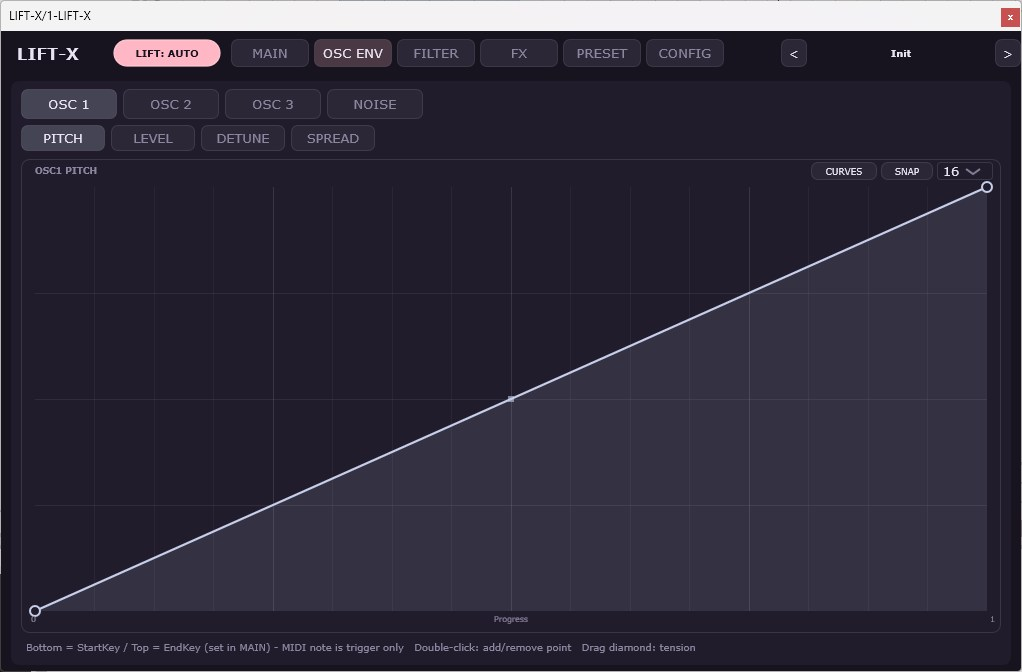
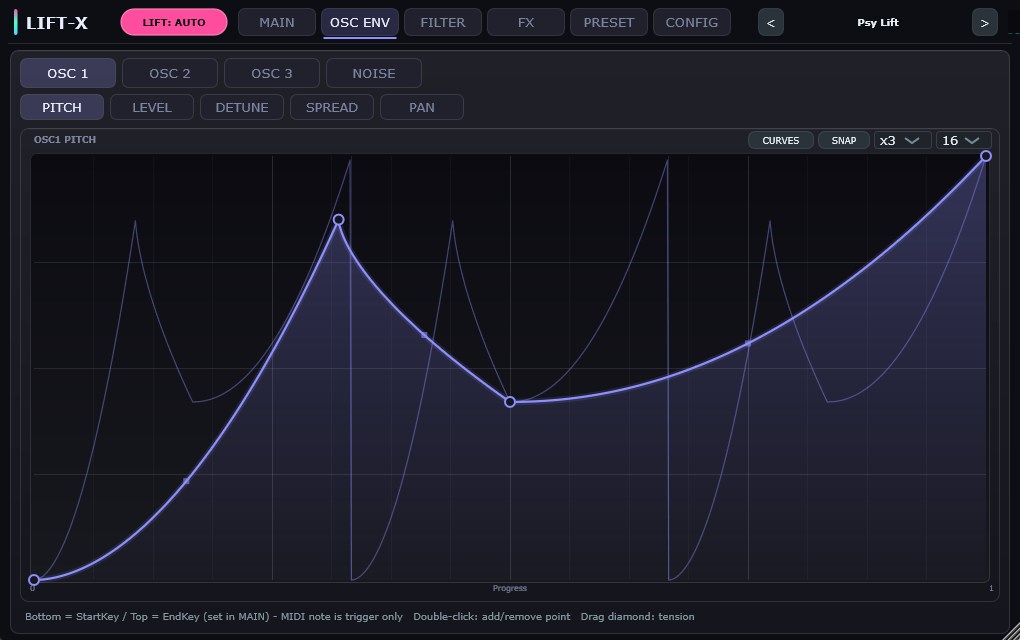
Lift-Xの記載を修正

diff --git a/lift-x.html b/lift-x.html
@@ -3,7 +3,7 @@
 <head>
   <meta charset="UTF-8" />
   <meta name="viewport" content="width=device-width, initial-scale=1.0" />
-  <title>LIFT-X — OTODESK | Riser-Dedicated Synthesizer — 31 Envelopes</title>
+  <title>LIFT-X — OTODESK | Riser-Dedicated Synthesizer — 41 Envelopes</title>
   <link rel="preconnect" href="https://fonts.googleapis.com" />
   <link href="https://fonts.googleapis.com/css2?family=Geist+Mono:wght@300;400;500;600&family=Geist:wght@300;400;500;600;700;800&display=swap" rel="stylesheet" />
   <style>
@@ -41,10 +41,13 @@
     .hero-badge-dot { width: 6px; height: 6px; border-radius: 50%; background: var(--accent); box-shadow: 0 0 8px var(--accent); }
     .hero-title { font-size: clamp(48px, 7vw, 88px); font-weight: 800; line-height: 0.98; letter-spacing: -0.04em; margin-bottom: 24px; color: var(--accent); }
     .hero-copy { font-size: clamp(20px, 3vw, 32px); font-weight: 600; line-height: 1.25; letter-spacing: -0.02em; margin-bottom: 24px; color: var(--ink); }
-    .hero-desc { font-size: 16px; color: var(--dim2); max-width: 680px; line-height: 1.8; margin-bottom: 40px; font-weight: 300; }
+    .hero-desc { font-size: 16px; color: var(--dim2); max-width: 720px; line-height: 1.8; margin-bottom: 40px; font-weight: 300; }
     .hero-actions { display: flex; align-items: center; gap: 16px; flex-wrap: wrap; margin-bottom: 48px; }
     
-    .btn-disabled { display: inline-flex; align-items: center; gap: 8px; padding: 14px 28px; font-family: var(--mono); font-size: 13px; font-weight: 600; color: var(--dim); background: rgba(255,255,255,0.03); border: 1px solid var(--rule); cursor: not-allowed; opacity: 0.6; pointer-events: none; }
+    .btn-primary { display: inline-flex; align-items: center; gap: 8px; padding: 14px 28px; font-family: var(--mono); font-size: 13px; font-weight: 600; color: #000; background: var(--accent); border: 1px solid var(--accent); transition: all 0.2s; box-shadow: 0 0 20px rgba(255, 138, 60, 0.3); }
+    .btn-primary:hover { background: #ffa05c; border-color: #ffa05c; transform: translateY(-1px); }
+    .btn-ghost { display: inline-flex; align-items: center; gap: 8px; padding: 14px 28px; font-family: var(--mono); font-size: 13px; color: var(--ink); border: 1px solid var(--rule); background: var(--bg2); transition: all 0.2s; }
+    .btn-ghost:hover { border-color: var(--dim2); background: var(--bg3); }
     .btn-sub { display: inline-flex; align-items: center; gap: 8px; padding: 14px 28px; font-family: var(--mono); font-size: 13px; color: var(--dim2); border: 1px solid var(--rule); transition: all 0.2s; }
     .btn-sub:hover { color: var(--ink); border-color: var(--dim2); }
 
@@ -113,9 +116,9 @@
       VST3 · COMING SOON 2026
     </div>
     <h1 class="hero-title">LIFT-X</h1>
-    <div class="hero-copy">31個のエンベロープが連動する驚愕のライザープラグイン</div>
+    <div class="hero-copy">ライザーはエンベロープではない——41個のカーブが同時に動く音楽的展開である。</div>
     <p class="hero-desc">
-      ライザーは単なる音量エンベロープではない——31個のカーブが同時に躍動する音楽的展開である。3×OSC、1×NOISE、4×Filter、5×FXの全パラメーターを単一のプレイヘッドで統合制御。全6モジュールのスクリーンショットで全貌を公開。
+      LIFT-X は、トランジション表現の常識を覆すライザー特化型 VST3 シンセサイザー。オシレーター・フィルター・FXの全自動化パラメーターに41個の独立多点カーブを完備し、単一の進行軸（LIFT）で統率。画期的な REPEAT ×1–32、70スケールクオンタイズ、Vowel / Comb フィルター、Beat Stutter、そして DAW 直結の WAV ドラッグ機能を搭載。
     </p>
 
     <div class="hero-actions">
@@ -131,7 +134,7 @@
     </div>
 
     <div class="hero-shot-main">
-      <img src="screenshots/liftx-main.jpg" alt="LIFT-X Main Interface" />
+      <img src="screenshots/liftx-main.jpg" alt="LIFT-X Main Interface v1.0.0" />
     </div>
   </header>
 
@@ -140,28 +143,38 @@
   <!-- FEATURES -->
   <section class="section">
     <div class="section-eyebrow">// Key Features</div>
-    <h2 class="section-h">展開のカーブを描くだけ。トランジション構築の完成形。</h2>
+    <h2 class="section-h">展開のカーブを描くだけ。トランジション構築の完全回答。</h2>
 
     <div class="feat-grid">
       <div class="feat-card">
-        <div class="feat-num">01 / 31 CURVES</div>
-        <div class="feat-title">1 プレイヘッド × 31 カーブ</div>
-        <div class="feat-desc">ピッチ、レベル、デチューン、ノイズ、フィルターカットオフ、FXパラメータ。あらゆる自動化要素が1つの進行軸（LIFT）に完全同期連動。</div>
+        <div class="feat-num">01 / 41 MULTI-POINT CURVES</div>
+        <div class="feat-title">1 プレイヘッド × 41 カーブ</div>
+        <div class="feat-desc">ピッチ、レベル、デチューン、ステレオ幅、PAN、ノイズ、4×フィルターCutoff/Res、14×FXパラメータ全41個が単一の軸に完全同期。最大128ポイント、ベジェ曲線で自在にカーブを描写。</div>
       </div>
       <div class="feat-card">
-        <div class="feat-num">02 / ABSOLUTE PITCH</div>
-        <div class="feat-title">Start Key → End Key 絶対ピッチ</div>
-        <div class="feat-desc">MIDIノートはトリガーに過ぎません。どの鍵盤を押しても、設定した Start Key から End Key の目的音階へ寸分違わず正確に上昇。</div>
+        <div class="feat-num">02 / REPEAT ×1–32</div>
+        <div class="feat-title">カーブ単位のリピート（LFO化）</div>
+        <div class="feat-desc">各カーブに独立して ×1〜32 のリピート数を設定可能。1回の描画で16分音符ゲートやテンポ同期のワブル（Wobble）エフェクトをモジュール追加なしで即座に構築。</div>
       </div>
       <div class="feat-card">
-        <div class="feat-num">03 / 70 SCALES</div>
+        <div class="feat-num">03 / ABSOLUTE PITCH & REVERSE</div>
+        <div class="feat-title">絶対ピッチ ＆ 1ボタン反転</div>
+        <div class="feat-desc">Start Key → End Key（オシレーターごと）の指定範囲へ正確に上昇。どの鍵盤を押しても狙った音階へ着地。1ボタンで41全カーブを逆再生する REVERSE（ライザー ↔ ダウンナー）を搭載。</div>
+      </div>
+      <div class="feat-card">
+        <div class="feat-num">04 / 70 SCALE QUANTIZE</div>
         <div class="feat-title">70スケール対応 Scale Quantize</div>
-        <div class="feat-desc">ピッチスイープを任意キーのスケール音へスナップ。滑らかな滑空ライザーから、階段状にステップ上昇する音楽的なライザーへ即座に変貌。</div>
+        <div class="feat-desc">ピッチスイープを任意キーのスケール音へ自動スナップ。滑らかな滑空ライザーから、階梯状（メロディック）にステップ上昇する音楽的なライザーへ即座に変貌。</div>
       </div>
       <div class="feat-card">
-        <div class="feat-num">04 / WAV CAPTURE & ROUTING</div>
-        <div class="feat-title">WAVドラッグ ＆ ソース別ルーティング</div>
-        <div class="feat-desc">生成されたライザーをそのままDAWへWAVドラッグ＆ドロップ。4フィルター＆5FXは各ソース（OSC 1〜3, Noise）ごとに通過/バイパスを個別指定可能。</div>
+        <div class="feat-num">05 / VOWEL & COMB FILTERS</div>
+        <div class="feat-title">Vowel ＆ Comb フィルター搭載</div>
+        <div class="feat-desc">人声フォルマントを再現する VOWEL（"aa-eh-ee" と喋るライザー）や、ノイズに音程を与えてスケール演奏させるフィードバック・レゾネーター COMB を含む 4 フィルター × 6 タイプ。</div>
+      </div>
+      <div class="feat-card">
+        <div class="feat-num">06 / BEAT STUTTER & WAV DRAG</div>
+        <div class="feat-title">Beat Stutter ＆ WAV ドラッグ</div>
+        <div class="feat-desc">テンポ同期ビートリピート Beat Stutter 搭載の 5 スロット FX ラック。生成音は -90 dBFS サイレンス検出で完全録音し、DAW タイムラインへ 32-bit float WAV を直接ドラッグ＆ドロップ！</div>
       </div>
     </div>
   </section>
@@ -171,7 +184,7 @@
   <!-- SCREENSHOT GALLERY (6 IMAGES) -->
   <section class="section">
     <div class="section-eyebrow">// Visual Walkthrough (全6画面)</div>
-    <h2 class="section-h">LIFT-X の全6モジュールと詳細仕様</h2>
+    <h2 class="section-h">LIFT-X v1.0.0 の全6モジュールと詳細仕様</h2>
 
     <!-- 1. Main -->
     <div class="showcase-item">
@@ -179,19 +192,19 @@
         <img src="screenshots/liftx-main.jpg" alt="LIFT-X Main Panel & Playhead" />
       </div>
       <div class="showcase-info">
-        <div class="showcase-title">01. メインパネル ＆ 31カーブ統合コントロール</div>
-        <div class="showcase-desc">単一のプレイヘッド（LIFT）によって制御されるメイン合成エンジン。3オシレーターのWavetable設定、ノイズジェネレーター、マスターリバース、WAVドラッグ生成が一体化。</div>
+        <div class="showcase-title">01. メインパネル ＆ 41カーブ統合コントロール</div>
+        <div class="showcase-desc">単一のプレイヘッド（LIFT）によって制御されるメイン合成エンジン。3オシレーター（Wavetable対応）、ノイズジェネレーター、音名表示 PITCH RAIL、マスターリバース、WAVドラッグ生成部が一体化。</div>
       </div>
     </div>
 
     <!-- 2. OSCEnv -->
     <div class="showcase-item">
       <div class="showcase-img">
-        <img src="screenshots/liftx-oscenv.jpg" alt="31 Multi-Point Curve Editor" />
+        <img src="screenshots/liftx-oscenv.jpg" alt="41 Multi-Point Curve Editor" />
       </div>
       <div class="showcase-info">
-        <div class="showcase-title">02. 多点ベジェ・エンベロープ・エディター</div>
-        <div class="showcase-desc">各カーブ最大128ポイント。ベジェテンションハンドルで自由な曲線を自由自在にカーブ描写。28種類のプリセット（Exp, Log, Steps, Saw, Pulse等）を内蔵。</div>
+        <div class="showcase-title">02. 41多点ベジェ・エンベロープ・エディター</div>
+        <div class="showcase-desc">各カーブ最大128ポイント。ベジェテンションハンドルで曲線を自由描写。47種類の形状プリセット（Basic, Curved, Shape, Steps, Saw/Gate, Pulse, Motion, Random）および REPEAT ×1–32、SNAP グリッドを完備。</div>
       </div>
     </div>
 
@@ -201,41 +214,41 @@
         <img src="screenshots/liftx-filter.jpg" alt="Per-Source Filter Matrix" />
       </div>
       <div class="showcase-info">
-        <div class="showcase-title">03. 4 ZDF/TPT フィルターマトリクス</div>
-        <div class="showcase-desc">Cytomicスタイルの台形統合TPT SVF（LP/HP/BP/Notch）。OSC 1〜3およびNoiseに対し、フィルターごとに通過・バイパスを独立マトリクス制御。</div>
+        <div class="showcase-title">03. 4 ZDF/TPT フィルターマトリクス (Vowel / Comb)</div>
+        <div class="showcase-desc">Cytomicスタイルの台形統合TPT SVF（LP/HP/BP/Notch）に加え、人声フォルマント VOWEL、音階共振器 COMB を搭載。OSC 1〜3およびNoiseに対し、フィルターごとに通過・バイパスを独立マトリクス制御。</div>
       </div>
     </div>
 
     <!-- 4. FX -->
     <div class="showcase-item">
       <div class="showcase-img">
-        <img src="screenshots/liftx-fx.jpg" alt="5-Slot FX Suite" />
+        <img src="screenshots/liftx-fx.jpg" alt="5-Slot FX Suite with Beat Stutter" />
       </div>
       <div class="showcase-info">
         <div class="showcase-title">04. ソース別ルーティング付き 5スロット FXラック</div>
-        <div class="showcase-desc">Saturation (10 ADAA algo), Chorus, Delay, Reverb, Ducking。効果ごとにサブベースだけリバーブから除外するなどの柔軟なソースルーティングを実現。</div>
+        <div class="showcase-desc">Saturation (10 ADAA algo), Chorus, Delay, Reverb (Shimmer), Ducking, Beat Stutter。効果ごとにサブベースだけリバーブから除外するなどの柔軟なソースルーティングを実現。14個のFXパラメータがカーブ変調対応。</div>
       </div>
     </div>
 
     <!-- 5. Preset -->
     <div class="showcase-item">
       <div class="showcase-img">
-        <img src="screenshots/liftx-preset.jpg" alt="Config & 70 Scale Quantizer" />
+        <img src="screenshots/liftx-preset.jpg" alt="134 Factory Presets & 70 Scale Quantizer" />
       </div>
       <div class="showcase-info">
-        <div class="showcase-title">05. 70種類のスケールクオンタイズ ＆ プリセットブラウザ</div>
-        <div class="showcase-desc">モード、日本古風（平調子・岩戸等）、ワールド、コードトーンなど70スケールを完備。11カテゴリのファクトリープリセットブラウザを内蔵。</div>
+        <div class="showcase-title">05. 134 ファクトリープリセット ＆ ブラウザ</div>
+        <div class="showcase-desc">11カテゴリ（EDM, Trance, Bass, Techno, Cinematic, Downer, Scale Riser, Dubstep, DnB, Hardstyle, Ambient）にわたる134プリセットを内蔵。音楽的ランダマイズ RANDOM ＆ 音色微調整 MUTATE 機能を搭載。</div>
       </div>
     </div>
 
     <!-- 6. Config -->
     <div class="showcase-item">
       <div class="showcase-img">
-        <img src="screenshots/liftx-config.jpg" alt="System Config & Audio Engines" />
+        <img src="screenshots/liftx-config.jpg" alt="System Config & 10 Color Themes" />
       </div>
       <div class="showcase-info">
-        <div class="showcase-title">06. システムコンフィグ ＆ エンジン設定</div>
-        <div class="showcase-desc">ライザー再生時間（1/32 Bar 〜 16 Bars）やマニュアルLIFTダイヤルの応答性、バッファキャプチャ品質の設定を直感的にカスタマイズ。</div>
+        <div class="showcase-title">06. システムコンフィグ ＆ 10カラーテーマ</div>
+        <div class="showcase-desc">70スケール・クオンタイズ、Key Follow（Fixed / Follow Start / Follow End）、10種のカラーテーマ（Midnight, Sakura, Ocean, Forest, Sunset, Mono, Neon, Vaporwave, Amber, Arctic）、ブリックウォール・リミッター設定。</div>
       </div>
     </div>
   </section>
@@ -259,47 +272,77 @@
       <tbody>
         <tr>
           <td>Envelope System</td>
-          <td>31 Curves / 1 Playhead</td>
+          <td>41 Curves / 1 Playhead</td>
           <td>1/32 to 16 Bars / Manual</td>
-          <td>Auto/Manual, Reverse, 128 Points/Curve</td>
+          <td>Auto/Manual, REVERSE, REPEAT ×1–32, 128 Points/Curve, 47 Presets</td>
         </tr>
         <tr>
           <td>Oscillators</td>
           <td>3 OSCs + Noise</td>
           <td>6 Waves (Sine/Tri/Sq/Saw/FM/Wavetable)</td>
-          <td>7-Voice Unison, 3 Noise Types (White/Pink/Brown)</td>
+          <td>7-Voice Unison, 3 Noise Types (White/Pink/Brown), Custom Wavetables</td>
         </tr>
         <tr>
           <td>Pitch Control</td>
           <td>Start Key → End Key</td>
           <td>C-2 to G8 / 70 Scales</td>
-          <td>絶対ピッチ制御・スケールスナップ・Coarseオフセット</td>
+          <td>絶対ピッチ制御・スケールスナップ・SWAP・PITCH RAIL音名表示・Key Follow</td>
         </tr>
         <tr>
           <td>Filters</td>
           <td>4 TPT SVF Filters</td>
-          <td>LP / HP / BP / Notch</td>
-          <td>各ソース独立パス/バイパスルーティング</td>
+          <td>LP / HP / BP / Notch / Vowel / Comb</td>
+          <td>各ソース独立パス/バイパスルーティング (16 instances), Cutoff/Res カーブ連動</td>
         </tr>
         <tr>
           <td>FX Engine</td>
           <td>5 Reorderable Slots</td>
-          <td>Sat / Chorus / Delay / Reverb / Ducking</td>
-          <td>ソース別独立エフェクトアサイン・WAVキャプチャ</td>
+          <td>Sat (10 ADAA) / Chorus / Delay / Reverb / Ducking / Beat Stutter</td>
+          <td>ソース別独立エフェクトアサイン・14パラメータ カーブ連動</td>
+        </tr>
+        <tr>
+          <td>Capture & Export</td>
+          <td>Riser Capture Buffer</td>
+          <td>-90 dBFS / Up to 60 sec</td>
+          <td>32-bit float WAV Drag & Drop / NORM (-0.3 dBFS) ノーマライズ</td>
+        </tr>
+        <tr>
+          <td>Presets & Config</td>
+          <td>134 Factory Presets</td>
+          <td>11 Categories / 10 Themes</td>
+          <td>RANDOM / MUTATE / BAR Lock / 10 Color Themes / Resizable 50%–200%</td>
         </tr>
       </tbody>
     </table>
 
     <div class="section-eyebrow" style="margin-top: 48px;">// Signal Flow</div>
     <div class="flow-box">
-MIDI Trigger ──► Transport Sync / Manual LIFT ──► [Evaluate 31 Curves]
-                                                        │
-┌─ OSC 1 (Wavetable) ─┐                                 ▼
-├─ OSC 2 (Wavetable) ─┼─► [4× Filter Matrix] ──► [5-Slot FX Suite]
-├─ OSC 3 (Wavetable) ─┤   (Per-source pass)     (Per-source route)
-└─ Noise Generator ───┘                                 │
-                                                        ▼
-[DAW WAV Drag] ◄── [Riser Capture Buffer] ◄── [Limiter] ◄── [Master Output]
+MIDI note (trigger only)
+   │
+   ├─ Transport sync (PPQ) ──► Progress 0→1 over BARS
+   │                              │
+   │                    LIFT (AUTO=Progress / MANUAL=knob)
+   │                              │  × REVERSE → 1-pos
+   │                              ▼
+   │                    ┌── 41 curves evaluated at one playhead ──┐
+   │                    │   (each with its own REPEAT ×1–32)       │
+   │                    │                                          │
+   ▼                    ▼                                          ▼
+OSC 1 ─ wavetable ─ unison ─┐                            Filter cutoff/res
+OSC 2 ─ wavetable ─ unison ─┤─ per-source filter routing        FX params
+OSC 3 ─ wavetable ─ unison ─┤   (4 filters × 4 sources)         Pan
+Noise ─ band-pass ──────────┘   LP/HP/BP/Notch/Vowel/Comb
+   │
+   ▼
+Per-source pan (equal power) ──► 4 separate source buses
+   │
+   ▼
+FX chain (5 slots, per-effect source routing)
+   │   Saturation / Chorus / Delay / Reverb / Ducking / Beat Stutter
+   ▼
+Bus sum ──► Master gain ──► Safety clip ──► Brick-wall limiter ──► Output
+                                                     │
+                                                     └─► Riser capture → WAV drag
     </div>
   </section>
 
@@ -308,9 +351,9 @@ MIDI Trigger ──► Transport Sync / Manual LIFT ──► [Evaluate 31 Curve
     <div class="license-box">
       <div class="license-title">LICENCE & CREDITS</div>
       <div class="license-text">
-        本プロジェクトは <strong>GNU Affero General Public License v3.0 (AGPLv3)</strong> のもとでオープンソース公開されます。<br />
-        GUI / DSP フレームワークには <strong>JUCE 8</strong> を使用しています。<br />
-        Developer: @kijyoumusic (OTODESK)
+        本プロジェクトは <strong>GNU Affero General Public License v3.0 (AGPLv3)</strong> のもとでオープンソース公開されています。<br />
+        GUI / DSP フレームワークには <strong>JUCE 8.0.x</strong> を使用しています。<br />
+        Developer: @kijyoumusic (OTODESK) · Target DAW: Ableton Live 11 / 12
       </div>
     </div>
   </section>

diff --git a/data/plugins.js b/data/plugins.js
@@ -110,7 +110,7 @@ window.PLUGINS = [
     id: "lift-x",
     num: "04",
     name: "LIFT-X",
-    category: { en: "Riser-Dedicated Synthesizer — 31 Envelopes", jp: "ライザー特化型シンセサイザー — 31マルチENV" },
+    category: { en: "Riser-Dedicated Synthesizer — 41 Envelopes", jp: "ライザー特化型シンセサイザー — 41マルチENV" },
     type: "Instrument",
     platform: { en: "Windows / VST3", jp: "Windows / VST3" },
     year: "2026",
@@ -123,20 +123,20 @@ window.PLUGINS = [
     sourceUrl: "https://github.com/OTODESK4193/LIFT-X",
     screenshot: "screenshots/liftx-main.jpg",
     tagline: {
-      en: "A mind-blowing riser plugin driven by 31 envelopes linked on one playhead.",
-      jp: "31個のエンベロープが連動する驚愕のライザープラグイン。音程と展開を完璧に制御。"
+      en: "A riser is not an envelope — it is forty-one envelopes moving together.",
+      jp: "ライザーはエンベロープではない——41個のカーブが同時に動く音楽的展開である。"
     },
     description: {
-      en: "3×OSC（カスタムWavetableも設定可）、1×NOISE、4×Filter、そして5つのFX。31個のマルチENVを使い自在にコントロールすることができます。アナタの想像力を使える音に変換します。",
-      jp: "3×OSC（カスタムWavetableも設定可）、1×NOISE、4×Filter、そして5つのFX。31個のマルチENVを使い自在にコントロールすることができます。アナタの想像力を使える音に変換します。"
+      en: "41 multi-point envelope curves evaluated on a single playhead. Features REPEAT x1-32 curve LFOs, absolute-pitch Start->End keys, 70-scale quantize, Vowel & Comb filters, Beat Stutter FX, 134 factory presets, and DAW WAV drag export.",
+      jp: "1つの進行軸（LIFT）に同期連動する41個の多点エンベロープ。カーブ単位のリピート（REPEAT ×1–32）、絶対ピッチ、70スケールクオンタイズ、Vowel/Combフィルター、Beat Stutter、134ファクトリープリセット、DAW直結WAVドラッグを搭載。"
     },
     features: [
-      { en: "31 multi-point envelope curves evaluated on a single playhead", jp: "1つのプレイヘッドに同期連動する31個の多点エンベロープカーブ" },
-      { en: "Absolute pitch risers (Start Key → End Key range per OSC)", jp: "どの鍵盤でも確実に狙った音階範囲を上昇する絶対ピッチ構造" },
+      { en: "41 multi-point envelope curves evaluated on a single playhead", jp: "1つの進行軸に完全同期連動する41個の多点エンベロープカーブ" },
+      { en: "REPEAT ×1–32 per curve — instant tempo-synced LFO & gates", jp: "カーブ単位の REPEAT ×1–32 — テンポ同期LFOやゲートを即座に構築" },
+      { en: "Absolute pitch risers (Start Key → End Key) & 1-button REVERSE", jp: "絶対ピッチ構造 (Start→End) ＆ 全カーブ反転 REVERSE ボタン" },
       { en: "Scale Quantize across 70 scales for stepped, in-key climbs", jp: "70スケール対応スケールクオンタイズによるステップ上昇" },
-      { en: "3 OSCs (w/ custom Wavetables) + 7-voice unison & 3 noise types", jp: "3 OSC (カスタムWavetable対応) ＋ 7ボイスユニゾン ＆ 3種ノイズ" },
-      { en: "4 TPT SVF filters & 5-slot FX rack with per-source routing", jp: "4つの TPT SVF フィルター ＆ ソース別ルーティング対応 5スロット FX" },
-      { en: "Instant WAV export — drag recorded riser straight into DAW", jp: "ワンクリック WAV 書き出し — DAWタイムラインへ直接ドラッグ" }
+      { en: "Vowel & Comb filters + 4-filter per-source routing matrix", jp: "Vowel(人声) ＆ Comb(音階共振) フィルター含む 4フィルターマトリクス" },
+      { en: "5-slot FX rack with Beat Stutter, 10 ADAA saturations & WAV drag", jp: "Beat Stutter ＆ 10 ADAA サチュレーション搭載 5スロット FX ＆ WAV ドラッグ" }
     ],
     repo: "https://github.com/OTODESK4193/LIFT-X",
     accent: "#ff8a3c"

diff --git a/components/sections.jsx b/components/sections.jsx
@@ -171,19 +171,20 @@ function Hero({ lang }) {
       url: "lift-x.html",
       color: "#ff8a3c",
       copy: {
-        jp: "31個のエンベロープが連動する驚愕のライザープラグイン",
-        en: "A Mind-Blowing Riser Plugin Driven by 31 Envelopes"
+        jp: "ライザーはエンベロープではない——41個のカーブが同時に動く音楽的展開である",
+        en: "A Riser is Not an Envelope — It is 41 Envelopes Moving Together"
       },
       desc: {
-        jp: "3×OSC（カスタムWavetableも設定可）、1×NOISE、4×Filter、そして5つのFX。31個のマルチENVを使い自在にコントロールすることができます。アナタの想像力を使える音に変換します。",
-        en: "3× OSCs (w/ custom wavetables), 1× Noise, 4× Filters, 5× FX. Command 31 multi-envelopes to translate your imagination into production-ready risers."
+        jp: "3×OSC（カスタムWavetable対応）、1×NOISE、4×Filter（Vowel/Comb搭載）、5×FX（Beat Stutter搭載）。41個のマルチENVにREPEAT ×1–32、絶対ピッチ、70スケールクオンタイズ、DAW直結WAVドラッグを凝縮。",
+        en: "3× OSCs, 1× Noise, 4× Filters (Vowel/Comb), 5× FX (Beat Stutter). 41 multi-envelopes with REPEAT x1-32, absolute pitch, 70-scale quantize & DAW WAV drag."
       },
       shots: [
         { label: "Main Panel", file: "screenshots/liftx-main.jpg" },
+        { label: "Curve Editor", file: "screenshots/liftx-oscenv.jpg" },
         { label: "Filter Matrix", file: "screenshots/liftx-filter.jpg" },
         { label: "FX Suite", file: "screenshots/liftx-fx.jpg" },
-        { label: "OSC Envelopes", file: "screenshots/liftx-oscenv.jpg" },
-        { label: "Presets", file: "screenshots/liftx-preset.jpg" }
+        { label: "Presets", file: "screenshots/liftx-preset.jpg" },
+        { label: "Config & Themes", file: "screenshots/liftx-config.jpg" }
       ]
     },
     5: {
